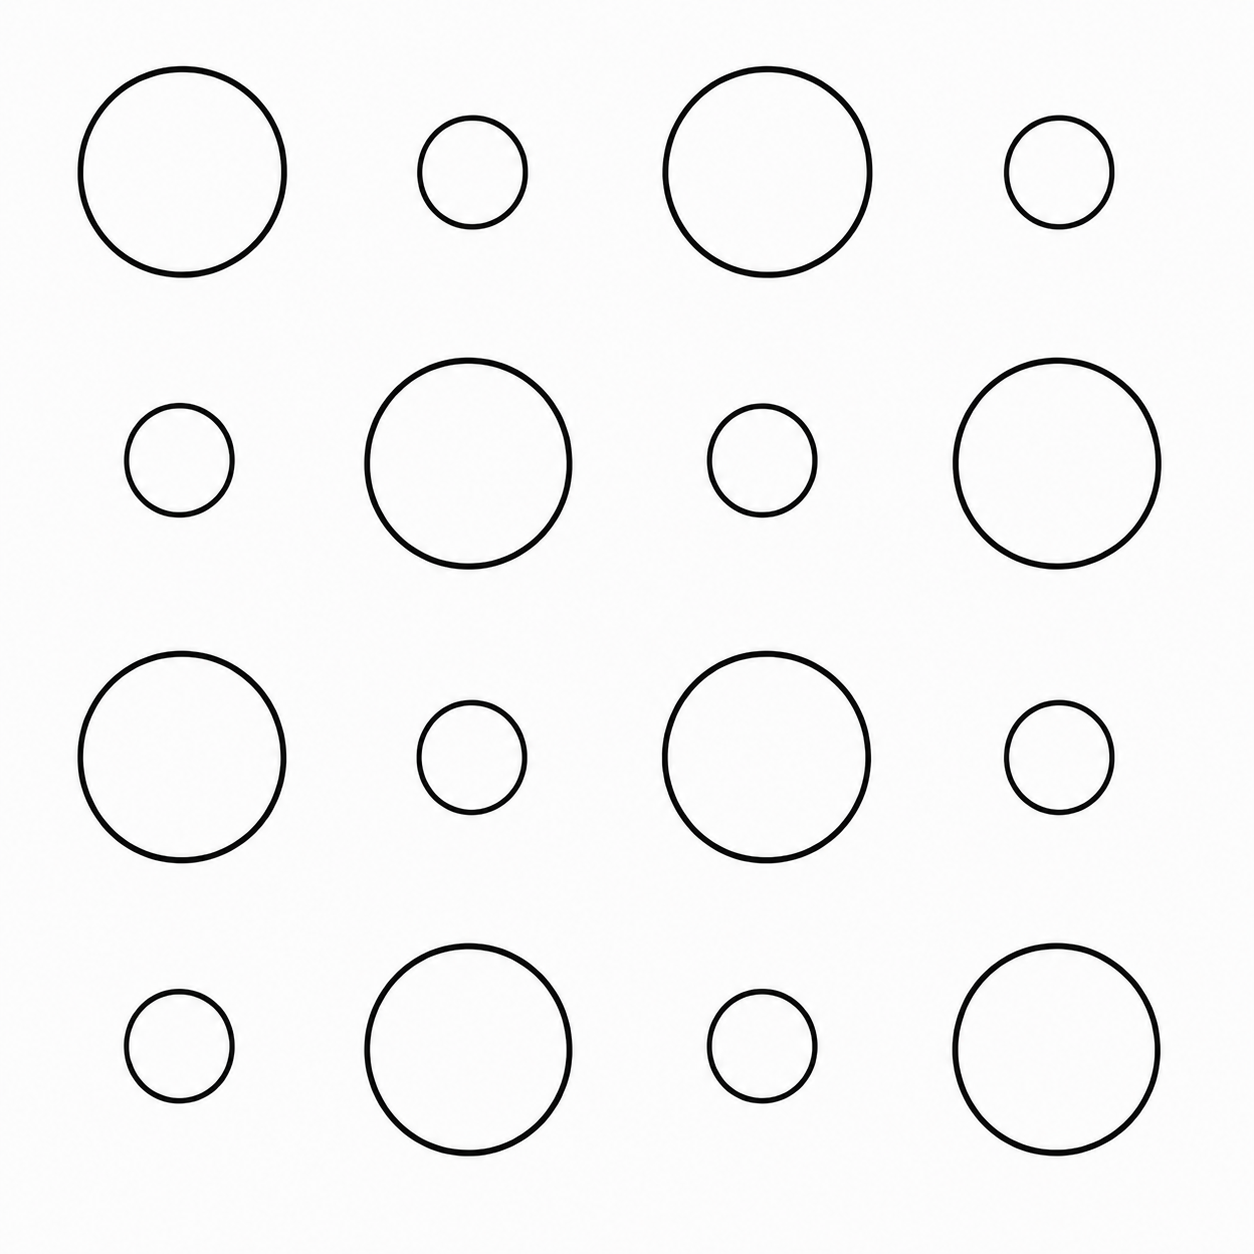
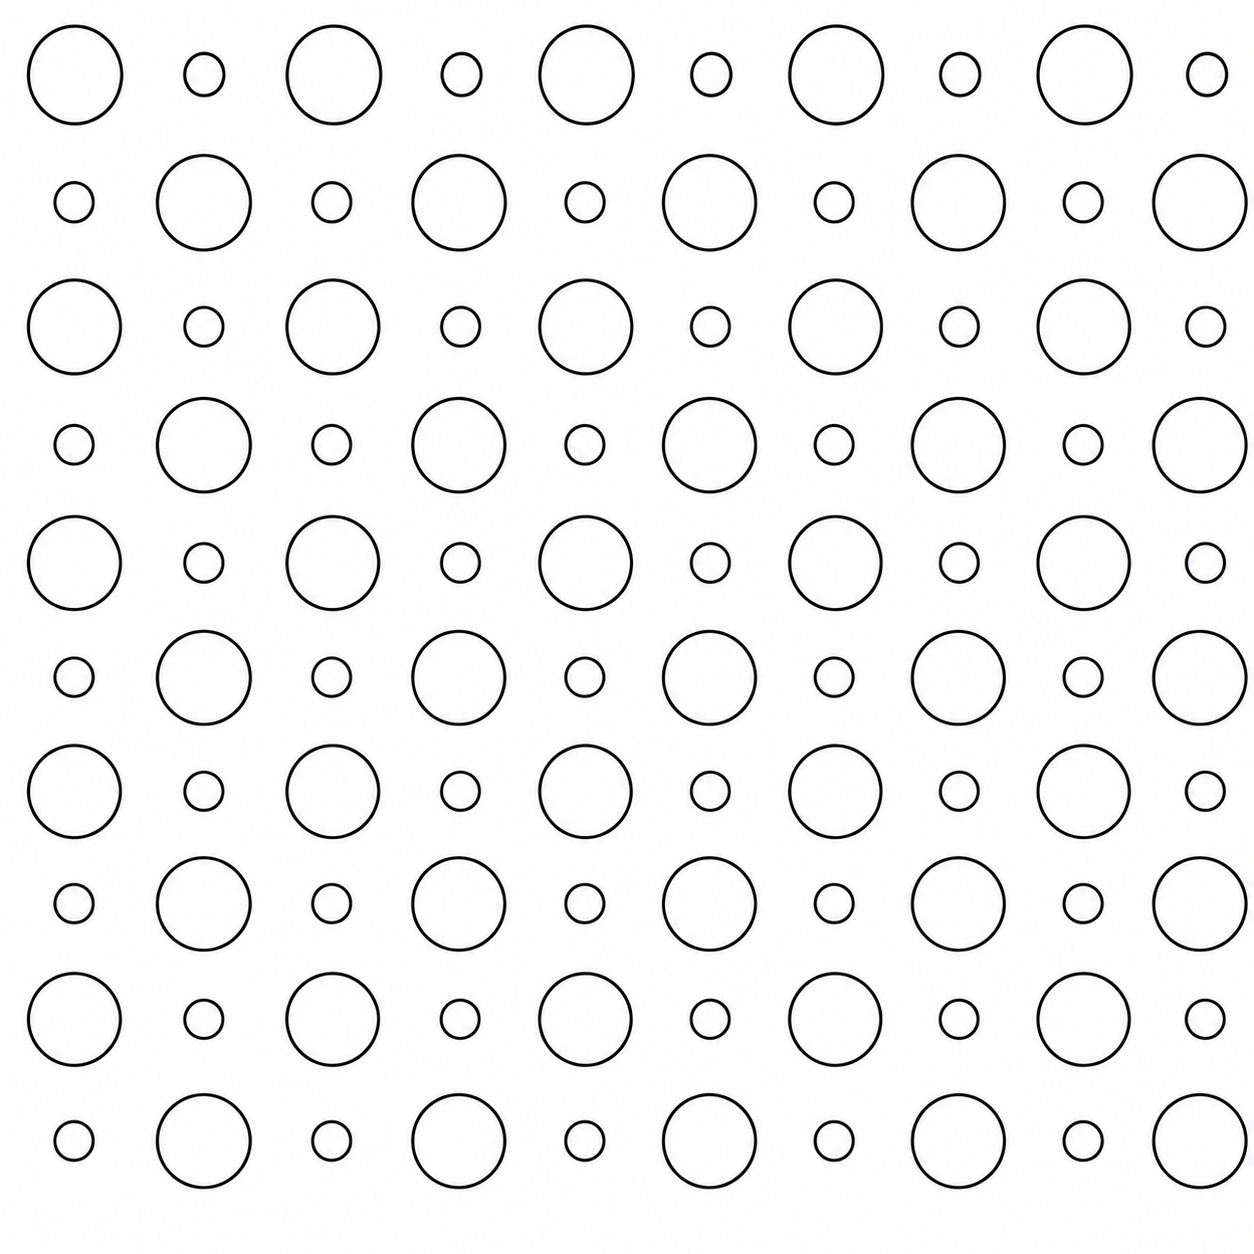
inward curved cup model

diff --git a/render_textured_cups_to_png.py b/render_textured_cups_to_png.py
@@ -158,14 +158,24 @@ def setup_render_settings(output_file_path):
 
 
 def enable_gpu_rendering():
-    try:
-        cycles_preferences = bpy.context.preferences.addons['cycles'].preferences
-        cycles_preferences.compute_device_type = 'METAL'
-        cycles_preferences.get_devices()
-        for compute_device in cycles_preferences.devices:
-            compute_device.use = True
-    except Exception as error:
-        print(f"Metal GPU unavailable ({error}), rendering on CPU.")
+    compute_device_type_priority_order = ['OPTIX', 'CUDA', 'HIP', 'ONEAPI', 'METAL']
+    cycles_preferences = bpy.context.preferences.addons['cycles'].preferences
+
+    for candidate_compute_device_type in compute_device_type_priority_order:
+        try:
+            cycles_preferences.compute_device_type = candidate_compute_device_type
+            cycles_preferences.get_devices()
+            available_compute_devices = list(cycles_preferences.devices)
+            if len(available_compute_devices) == 0:
+                continue
+            for compute_device in available_compute_devices:
+                compute_device.use = True
+            print(f"GPU rendering enabled using {candidate_compute_device_type}.")
+            return
+        except TypeError:
+            continue
+
+    print("No supported GPU compute device found, rendering on CPU.")
 
 
 def render_single_textured_model(blend_file_path, output_png_path):
@@ -202,12 +212,19 @@ def render_all_textured_models():
         print(f"No .blend files found in {INPUT_DIRECTORY}")
         return
 
-    print(f"Rendering {len(blend_files)} textured models to {absolute_output_directory}...")
+    print(f"Found {len(blend_files)} textured models in {INPUT_DIRECTORY}...")
     successfully_rendered_count = 0
+    already_rendered_skipped_count = 0
     for blend_file_index, blend_file_path in enumerate(blend_files):
         model_filename = os.path.basename(blend_file_path)
         model_base_name = os.path.splitext(model_filename)[0]
         output_png_path = os.path.join(absolute_output_directory, f"{model_base_name}.png")
+
+        if os.path.isfile(output_png_path):
+            print(f"  [{blend_file_index + 1}/{len(blend_files)}] Skipping {model_base_name}.png, already rendered")
+            already_rendered_skipped_count += 1
+            continue
+
         try:
             absolute_blend_file_path = os.path.abspath(blend_file_path)
             success = render_single_textured_model(absolute_blend_file_path, output_png_path)
@@ -217,7 +234,7 @@ def render_all_textured_models():
         except Exception as error:
             print(f"  Error rendering {blend_file_path}: {error}")
 
-    print(f"\nRender complete. Total rendered: {successfully_rendered_count}")
+    print(f"\nRender complete. Newly rendered: {successfully_rendered_count}, skipped as already present: {already_rendered_skipped_count}")
 
 
 render_all_textured_models()

diff --git a/generate_cup_models.py b/generate_cup_models.py
@@ -18,7 +18,7 @@ BODY_PROFILE_SHAPE_OPTIONS = [
     "tapered_wide_top_narrow_base",
     "tapered_narrow_top_wide_base",
     "convex_barrel_bulge",
-    "tapered_cone_with_pulled_foot"]
+    "concave_inward_waist"]
 
 
 def read_requested_model_count_from_command_arguments():
@@ -69,13 +69,8 @@ def compute_wall_radius_at_height_fraction(height_fraction, base_radius, body_pr
         return base_radius - silhouette_deviation_amount * height_fraction
     elif body_profile_shape == "convex_barrel_bulge":
         return base_radius + silhouette_deviation_amount * math.sin(math.pi * height_fraction)
-    elif body_profile_shape == "tapered_cone_with_pulled_foot":
-        foot_constant_radius = base_radius * foot_radius_fraction
-        rim_radius = base_radius + silhouette_deviation_amount
-        if height_fraction <= foot_height_fraction:
-            return foot_constant_radius
-        upper_taper_progress = (height_fraction - foot_height_fraction) / (1.0 - foot_height_fraction)
-        return foot_constant_radius + (rim_radius - foot_constant_radius) * upper_taper_progress
+    elif body_profile_shape == "concave_inward_waist":
+        return base_radius - silhouette_deviation_amount * math.sin(math.pi * height_fraction)
     else:
         return base_radius
 
@@ -147,22 +142,20 @@ def build_single_unique_cup(model_index):
 
     overall_uniform_scale = random.uniform(0.80, 1.30)
     base_radius = random.uniform(0.040, 0.065) * overall_uniform_scale
-    cup_height = random.uniform(0.075, 0.130) * overall_uniform_scale
+    cup_height = random.uniform(0.135, 0.195) * overall_uniform_scale
     wall_thickness = random.uniform(0.0040, 0.0060) * overall_uniform_scale
 
     foot_radius_fraction = 0.0
     foot_height_fraction = 0.0
 
     if chosen_body_profile_shape == "tapered_wide_top_narrow_base":
-        silhouette_deviation_amount = base_radius * random.uniform(0.25, 0.45)
+        silhouette_deviation_amount = base_radius * random.uniform(0.10, 0.20)
     elif chosen_body_profile_shape == "tapered_narrow_top_wide_base":
-        silhouette_deviation_amount = base_radius * random.uniform(0.20, 0.35)
+        silhouette_deviation_amount = base_radius * random.uniform(0.10, 0.20)
     elif chosen_body_profile_shape == "convex_barrel_bulge":
-        silhouette_deviation_amount = base_radius * random.uniform(0.12, 0.30)
-    elif chosen_body_profile_shape == "tapered_cone_with_pulled_foot":
-        silhouette_deviation_amount = base_radius * random.uniform(0.35, 0.65)
-        foot_radius_fraction = random.uniform(0.55, 0.70)
-        foot_height_fraction = random.uniform(0.05, 0.09)
+        silhouette_deviation_amount = base_radius * random.uniform(0.10, 0.20)
+    elif chosen_body_profile_shape == "concave_inward_waist":
+        silhouette_deviation_amount = base_radius * random.uniform(0.12, 0.22)
     else:
         silhouette_deviation_amount = 0.0
 

diff --git a/apply_skin_to_cup_models.py b/apply_skin_to_cup_models.py
@@ -138,13 +138,13 @@ def build_image_skin_material(image_file_path):
     return skin_material
 
 
-def build_plain_inner_surface_material():
-    inner_material = bpy.data.materials.new("vessel_inner_surface_plain")
-    inner_material.use_nodes = True
-    principled_shader = inner_material.node_tree.nodes.get("Principled BSDF")
-    principled_shader.inputs["Base Color"].default_value = (0.12, 0.11, 0.10, 1.0)
-    principled_shader.inputs["Roughness"].default_value = 0.85
-    return inner_material
+def build_light_ceramic_inner_surface_material():
+    inner_ceramic_material = bpy.data.materials.new("vessel_inner_surface_ceramic")
+    inner_ceramic_material.use_nodes = True
+    inner_ceramic_principled_shader = inner_ceramic_material.node_tree.nodes.get("Principled BSDF")
+    inner_ceramic_principled_shader.inputs["Base Color"].default_value = (0.92, 0.90, 0.84, 1.0)
+    inner_ceramic_principled_shader.inputs["Roughness"].default_value = 0.55
+    return inner_ceramic_material
 
 
 def assign_polygons_to_outer_or_inner_material(vessel_object, skin_material, inner_material):
@@ -183,8 +183,8 @@ def apply_skin_to_single_blend_file(blend_file_path, image_file_path, output_ble
     correct_seam_uv_discontinuity(vessel_object)
 
     skin_material = build_image_skin_material(image_file_path)
-    inner_material = build_plain_inner_surface_material()
-    assign_polygons_to_outer_or_inner_material(vessel_object, skin_material, inner_material)
+    inner_ceramic_material = build_light_ceramic_inner_surface_material()
+    assign_polygons_to_outer_or_inner_material(vessel_object, skin_material, inner_ceramic_material)
 
     bpy.ops.wm.save_as_mainfile(filepath=output_blend_file_path)
     return True